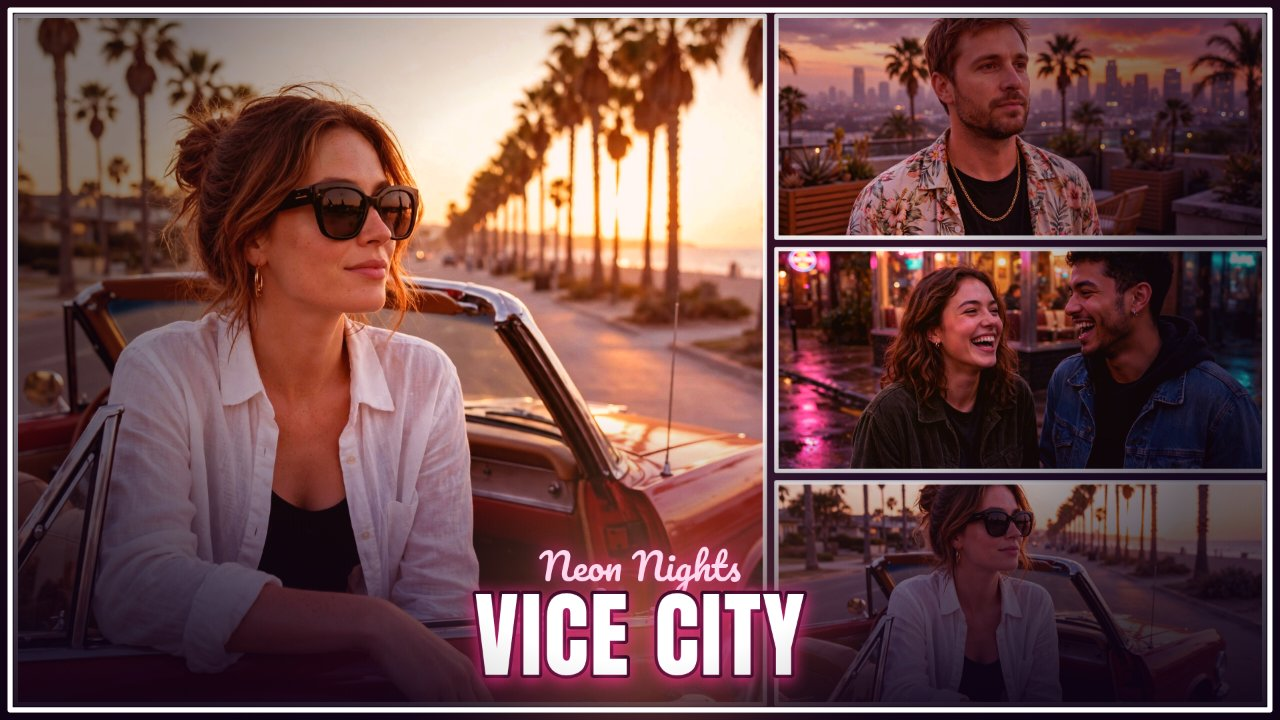
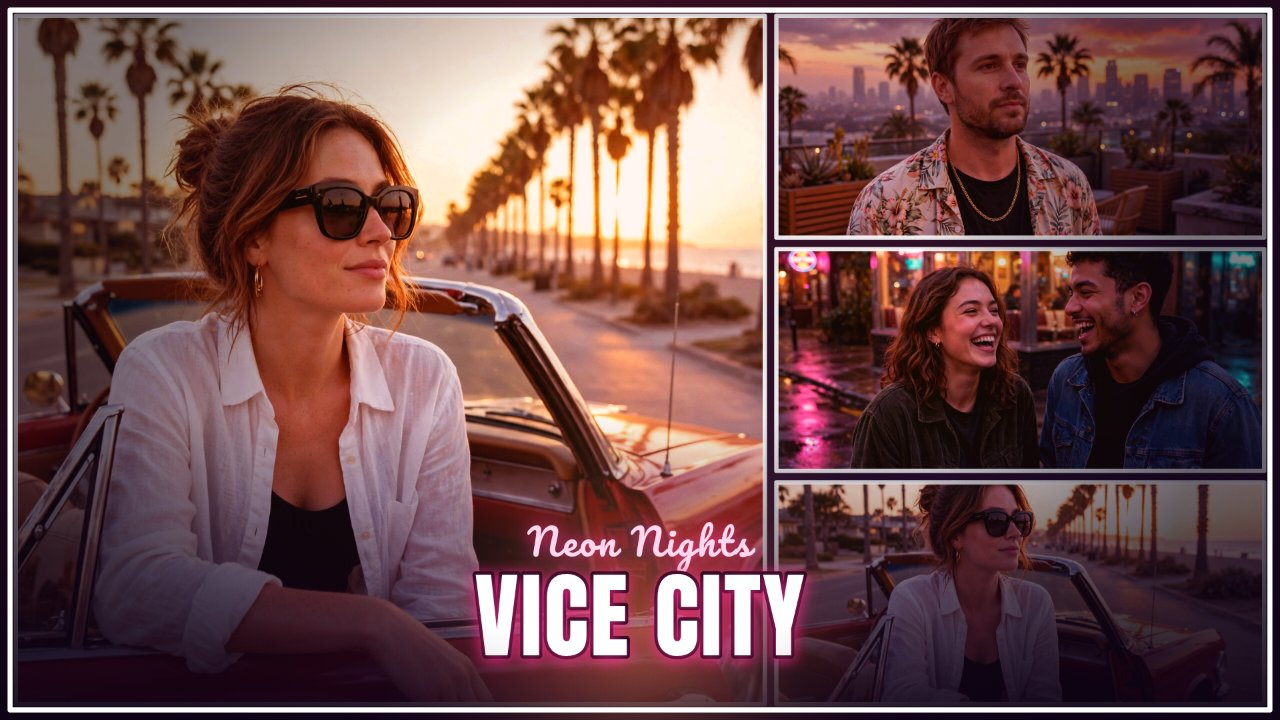
Fix Hermes review: uploaded photos, title wrap, subtitle overlap, pan clamp

Changed region(s): [[0.3438, 0.7028, 0.6562, 0.9778]]

diff --git a/app/src/cover.js b/app/src/cover.js
@@ -3,6 +3,11 @@
 // placed into a layout's panels (cover-fit, pan and zoom per panel), a colour
 // grade is laid over the whole piece, then the caption is lettered in Anton
 // with a Pacifico script subtitle, grain, vignette and a white poster frame.
+//
+// Pan is clamped to the photo's real overflow at its zoom, so a panel can
+// never slide far enough to expose the backdrop; the caption is wrapped and
+// shrunk until it fits in two lines, and the subtitle is anchored to the
+// title block so the two can never overlap.
 
 export const SIZES = {
   '1080x1080': [1080, 1080],
@@ -124,6 +129,35 @@ function grainTile() {
   return noiseCanvas;
 }
 
+/**
+ * Max pan offsets (fractions of panel width/height) before the photo's edge
+ * would expose the backdrop. Derived from the photo's real cover-fit size
+ * at the panel's zoom: at zoom 1 a photo that exactly fills the panel
+ * cannot move at all, and zooming in buys exactly the overflow it creates.
+ */
+export function panLimits(photo, rect, zoom) {
+  if (!photo || !photo.naturalWidth || !photo.naturalHeight || !rect) {
+    return { maxOx: 0, maxOy: 0 };
+  }
+  const z = zoom || 1;
+  const scale = Math.max(rect.w / photo.naturalWidth, rect.h / photo.naturalHeight) * z;
+  const pw = photo.naturalWidth * scale;
+  const ph = photo.naturalHeight * scale;
+  return {
+    maxOx: Math.max(0, (pw - rect.w) / 2 / rect.w),
+    maxOy: Math.max(0, (ph - rect.h) / 2 / rect.h),
+  };
+}
+
+/** Clamps a panel's pan to what its photo can actually cover. */
+function clampPan(panel, photo, rect) {
+  const { maxOx, maxOy } = panLimits(photo, rect, panel.zoom || 1);
+  return {
+    ox: Math.max(-maxOx, Math.min(maxOx, panel.ox || 0)),
+    oy: Math.max(-maxOy, Math.min(maxOy, panel.oy || 0)),
+  };
+}
+
 /** Draws one photo into a panel rect, cover-fit, with the panel's pan and zoom. */
 function drawPhotoIntoPanel(ctx, photo, rect, panel) {
   const { x, y, w, h, rot } = rect;
@@ -137,28 +171,58 @@ function drawPhotoIntoPanel(ctx, photo, rect, panel) {
   const scale = Math.max(w / photo.naturalWidth, h / photo.naturalHeight) * zoom;
   const pw = photo.naturalWidth * scale;
   const ph = photo.naturalHeight * scale;
-  const ox = (panel.ox || 0) * w;
-  const oy = (panel.oy || 0) * h;
-  ctx.drawImage(photo, -pw / 2 + ox, -ph / 2 + oy, pw, ph);
+  // Clamp here too, not just in the drag handler: no caller can ever slide
+  // the photo far enough to show the backdrop behind the panel.
+  const { ox, oy } = clampPan(panel, photo, rect);
+  ctx.drawImage(photo, -pw / 2 + ox * w, -ph / 2 + oy * h, pw, ph);
   ctx.restore();
 }
 
-/** Splits a caption into at most two centred lines that fit the width. */
+/** Longest a title line may run, in characters. */
+const TITLE_MAX_CHARS = 48;
+
+/**
+ * Splits a caption into centred lines that fit the width: greedy word wrap
+ * measured with the live font, at most TITLE_MAX_CHARS characters per line,
+ * with overlong words split at the widest prefix that still fits. It may
+ * return more than two lines; the caller shrinks the font until two remain.
+ */
 function wrapCaption(ctx, text, maxWidth) {
   const words = text.split(/\s+/).filter(Boolean);
-  if (words.length === 0) return [];
-  const lines = [''];
-  for (const word of words) {
-    const trial = lines[lines.length - 1] ? `${lines[lines.length - 1]} ${word}` : word;
-    if (ctx.measureText(trial).width <= maxWidth || lines[lines.length - 1] === '') {
-      lines[lines.length - 1] = trial;
-    } else if (lines.length === 1) {
-      lines.push(word);
+  const lines = [];
+  let cur = '';
+  const pushLine = () => { if (cur) lines.push(cur); cur = ''; };
+  for (let word of words) {
+    // A word that is too wide (or too long) is split into fitting chunks.
+    while ((ctx.measureText(word).width > maxWidth || word.length > TITLE_MAX_CHARS) && word.length > 1) {
+      let n = Math.min(word.length - 1, TITLE_MAX_CHARS);
+      while (n > 1 && ctx.measureText(word.slice(0, n)).width > maxWidth) n -= 1;
+      pushLine();
+      lines.push(word.slice(0, n));
+      word = word.slice(n);
+    }
+    const trial = cur ? `${cur} ${word}` : word;
+    const fits = ctx.measureText(trial).width <= maxWidth && trial.length <= TITLE_MAX_CHARS;
+    if (fits) {
+      cur = trial;
+    } else if (!cur) {
+      cur = word;
     } else {
-      lines[1] = `${lines[1]} ${word}`;
+      pushLine();
+      cur = word;
     }
   }
-  return lines.filter(Boolean);
+  pushLine();
+  return lines;
+}
+
+/** Shortens a line with an ellipsis until it fits the width. */
+function fitLine(ctx, text, maxWidth) {
+  let line = text;
+  while (line.length > 1 && ctx.measureText(`${line}…`).width > maxWidth) {
+    line = line.slice(0, -1);
+  }
+  return line.length < text.length ? `${line}…` : line;
 }
 
 /** Letters the title and subtitle over the cover, with a scrim and a sun glow. */
@@ -178,8 +242,53 @@ function drawLettering(ctx, W, H, state, grade) {
   }
   ctx.fillStyle = scrim;
   ctx.fillRect(0, 0, W, H);
+
+  const title = (state.title || '').trim().toUpperCase();
+  const subtitle = (state.subtitle || '').trim();
+  const subSize = m * 0.052;
+
+  // Title first: pick the biggest font whose wrapped lines fit in two lines.
+  // Every line is re-measured after each shrink, so a long title ends up
+  // smaller instead of spilling past the canvas edge.
+  let lines = [];
+  let size = 0;
+  if (title) {
+    size = Math.min(W * 0.17, m * 0.13);
+    const floor = m * 0.05;
+    for (;;) {
+      ctx.font = `${size}px Anton, sans-serif`;
+      try { ctx.letterSpacing = `${Math.round(size * 0.02)}px`; } catch { /* older canvas */ }
+      lines = wrapCaption(ctx, title, W * 0.92);
+      const fits = lines.length <= 2
+        && lines.every((line) => ctx.measureText(line).width <= W * 0.92);
+      if (fits || size <= floor) break;
+      size = Math.max(floor, size - 2);
+    }
+    if (lines.length > 2) {
+      // Even at the smallest font the title needs more than two lines:
+      // fold the overflow into line two, trimmed with an ellipsis.
+      lines = [lines[0], fitLine(ctx, lines.slice(1).join(' '), W * 0.92)];
+    }
+  }
+  const lineHeight = size * 1.02;
+  const blockH = lines.length * lineHeight;
+
+  // Anchor the title block and the subtitle to each other, so they can
+  // never overlap: at the bottom the script sits above the title, at the
+  // top it sits below it. With no title, the subtitle keeps its old spot.
+  let titleTop;
+  let subY = null;
+  if (bottom) {
+    titleTop = H * 0.94 - blockH;
+    if (subtitle) subY = titleTop - subSize * 0.9;
+  } else {
+    titleTop = H * 0.06;
+    if (subtitle) subY = titleTop + blockH + subSize * 0.9;
+  }
+  if (!title && subtitle) subY = bottom ? H * 0.795 : H * 0.075;
+
   // Warm glow behind the title, like a low sun.
-  const gy = bottom ? H * 0.86 : H * 0.16;
+  const gy = title ? titleTop + blockH / 2 : (bottom ? H * 0.86 : H * 0.16);
   const glow = ctx.createRadialGradient(W / 2, gy, 0, W / 2, gy, m * 0.42);
   glow.addColorStop(0, grade.glow);
   glow.addColorStop(1, 'rgba(0, 0, 0, 0)');
@@ -189,33 +298,17 @@ function drawLettering(ctx, W, H, state, grade) {
   ctx.fillRect(0, 0, W, H);
   ctx.restore();
 
-  const title = (state.title || '').trim().toUpperCase();
-  const subtitle = (state.subtitle || '').trim();
   ctx.textAlign = 'center';
   ctx.textBaseline = 'middle';
-  if (subtitle) {
-    const subSize = m * 0.052;
+  if (subtitle && subY !== null) {
     ctx.font = `${subSize}px Pacifico, cursive`;
     ctx.fillStyle = '#ffd7ef';
     ctx.shadowColor = 'rgba(255, 45, 150, 0.9)';
     ctx.shadowBlur = subSize * 0.5;
-    const subY = bottom ? H * 0.795 : H * 0.075;
     ctx.fillText(subtitle, W / 2, subY);
     ctx.shadowBlur = 0;
   }
   if (title) {
-    let size = Math.min(W * 0.17, m * 0.13);
-    ctx.font = `${size}px Anton, sans-serif`;
-    try { ctx.letterSpacing = `${Math.round(size * 0.02)}px`; } catch { /* older canvas */ }
-    let lines = wrapCaption(ctx, title, W * 0.92);
-    while (lines.length > 2 && size > m * 0.05) {
-      size -= 2;
-      ctx.font = `${size}px Anton, sans-serif`;
-      lines = wrapCaption(ctx, title, W * 0.92);
-    }
-    const lineHeight = size * 1.02;
-    const blockH = lines.length * lineHeight;
-    const topY = bottom ? H * 0.9 - blockH / 2 : H * 0.2 - blockH / 2;
     ctx.font = `${size}px Anton, sans-serif`;
     ctx.lineJoin = 'round';
     ctx.strokeStyle = '#1c0518';
@@ -225,7 +318,7 @@ function drawLettering(ctx, W, H, state, grade) {
     ctx.shadowBlur = size * 0.16;
     ctx.shadowOffsetY = size * 0.03;
     lines.forEach((line, i) => {
-      const y = topY + lineHeight * (i + 0.5);
+      const y = titleTop + lineHeight * (i + 0.5);
       ctx.strokeText(line, W / 2, y);
       ctx.fillText(line, W / 2, y);
     });

diff --git a/app/src/main.js b/app/src/main.js
@@ -1,7 +1,7 @@
 // Vice Cover Studio — wires the page: photos in, caption typed, panels
 // dragged and zoomed, cover out as a PNG. A `?shot=` query sets up a fixed
 // scene for a screenshot instead (./shots.js).
-import { drawCover, panelCount, panelRects, SIZES, LAYOUTS, GRADES } from './cover.js';
+import { drawCover, panelCount, panelRects, panLimits, SIZES, LAYOUTS, GRADES } from './cover.js';
 import { runShot } from './shots.js';
 
 const canvas = document.getElementById('cover');
@@ -27,6 +27,8 @@ export const state = {
   frame: true,
   photos: [],
   photoNames: [],
+  // Indices into photos[] that are built-in samples (not user uploads).
+  samplePhotos: new Set(),
   panels: [
     { photo: 0, zoom: 1, ox: 0, oy: 0 },
     { photo: 1, zoom: 1, ox: 0, oy: 0 },
@@ -103,10 +105,33 @@ function say(message) {
   if (status) status.textContent = message;
 }
 
-/** Adds a photo to the library and repoints empty panels at it. */
-export function addPhoto(img, name) {
+/**
+ * Adds a photo to the library. A user upload takes over the first panel
+ * still showing a sample photo — the first upload lands in panel 1, the
+ * hero slot — and later uploads fill the other panels in order, so an
+ * uploaded photo is always visible on the cover right away. Once every
+ * panel already shows a user photo, the upload goes to the selected panel
+ * instead. Samples never reassign panels: the opening state already points
+ * panels 1–3 at the three samples.
+ */
+export function addPhoto(img, name, { sample = false } = {}) {
   state.photos.push(img);
   state.photoNames.push(name);
+  const index = state.photos.length - 1;
+  if (sample) {
+    state.samplePhotos.add(index);
+  } else {
+    let target = -1;
+    for (let i = 0; i < state.panels.length; i += 1) {
+      if (state.samplePhotos.has(state.panels[i].photo)) {
+        target = i;
+        break;
+      }
+    }
+    if (target < 0) target = state.selected;
+    state.panels[target].photo = index;
+    state.selected = target;
+  }
   renderThumbs();
   redraw();
 }
@@ -116,7 +141,7 @@ export async function loadSample(name) {
   const sample = SAMPLES.find((s) => s.name === name);
   if (!sample) throw new Error(`no sample named ${name}`);
   const img = await loadImage(sample.file);
-  addPhoto(img, sample.label);
+  addPhoto(img, sample.label, { sample: true });
   return img;
 }
 
@@ -175,6 +200,20 @@ function buildChoiceButtons() {
   syncChoiceButtons('sizes', state.size);
 }
 
+/**
+ * Rotates a canvas point into a panel's unrotated local frame, so hit tests
+ * and drag deltas work for tilted panels too (the snaps layout).
+ */
+function toPanelLocal(px, py, rect) {
+  const cx = rect.x + rect.w / 2;
+  const cy = rect.y + rect.h / 2;
+  const dx = px - cx;
+  const dy = py - cy;
+  const cos = Math.cos(-rect.rot);
+  const sin = Math.sin(-rect.rot);
+  return { x: dx * cos - dy * sin, y: dx * sin + dy * cos };
+}
+
 /** Finds which panel a preview-canvas point falls in (or -1). */
 function hitPanel(clientX, clientY) {
   const box = canvas.getBoundingClientRect();
@@ -185,9 +224,23 @@ function hitPanel(clientX, clientY) {
   const n = panelCount(state.layout);
   for (let i = n - 1; i >= 0; i -= 1) {
     const r = rects[i];
-    if (px >= r.x && px <= r.x + r.w && py >= r.y && py <= r.y + r.h) return i;
+    const local = toPanelLocal(px, py, r);
+    if (Math.abs(local.x) <= r.w / 2 && Math.abs(local.y) <= r.h / 2) return i;
   }
   return -1;
+}
+
+/** Clamps a panel's pan to what its photo can actually cover at its zoom. */
+function clampPanelPan(i) {
+  const panel = state.panels[i];
+  if (!panel) return;
+  const rects = panelRects(state.layout, ...SIZES[state.size]);
+  const rect = rects[i];
+  if (!rect) return;
+  const photo = state.photos[panel.photo];
+  const { maxOx, maxOy } = panLimits(photo, rect, panel.zoom || 1);
+  panel.ox = Math.max(-maxOx, Math.min(maxOx, panel.ox || 0));
+  panel.oy = Math.max(-maxOy, Math.min(maxOy, panel.oy || 0));
 }
 
 /** Drag on the preview pans the selected panel's photo; wheel zooms it. */
@@ -214,10 +267,15 @@ function wireCanvasDrag() {
     const rect = rects[state.selected];
     if (!rect) return;
     const panel = state.panels[state.selected];
-    panel.ox += ((e.clientX - lastX) / box.width) * (W / rect.w);
-    panel.oy += ((e.clientY - lastY) / box.height) * (H / rect.h);
-    panel.ox = Math.max(-0.6, Math.min(0.6, panel.ox));
-    panel.oy = Math.max(-0.6, Math.min(0.6, panel.oy));
+    // Drag delta in canvas pixels, rotated into the panel's own frame so a
+    // tilted snap pans along its own axes instead of the screen's.
+    const dx = (e.clientX - lastX) * (W / box.width);
+    const dy = (e.clientY - lastY) * (H / box.height);
+    const cos = Math.cos(-rect.rot);
+    const sin = Math.sin(-rect.rot);
+    panel.ox += (dx * cos - dy * sin) / rect.w;
+    panel.oy += (dx * sin + dy * cos) / rect.h;
+    clampPanelPan(state.selected);
     lastX = e.clientX;
     lastY = e.clientY;
     redraw();
@@ -232,6 +290,7 @@ function wireCanvasDrag() {
     state.selected = hit;
     const panel = state.panels[hit];
     panel.zoom = Math.max(1, Math.min(2.5, (panel.zoom || 1) * (e.deltaY < 0 ? 1.08 : 0.93)));
+    clampPanelPan(hit);
     redraw();
   }, { passive: false });
 }
@@ -267,7 +326,9 @@ function wireControls() {
         say(`Could not read ${file.name}.`);
       }
     }
-    if (files.length) say(`${files.length} photo${files.length === 1 ? '' : 's'} loaded — click a panel, then drag to crop.`);
+    if (files.length) {
+      say(`${files.length} photo${files.length === 1 ? '' : 's'} loaded into panel ${state.selected + 1} — drag to crop.`);
+    }
     e.target.value = '';
   });
   document.getElementById('sample-boulevard').addEventListener('click', () => loadSample('boulevard'));
@@ -282,6 +343,7 @@ function wireControls() {
   document.getElementById('zoom').addEventListener('input', (e) => {
     const panel = state.panels[state.selected];
     panel.zoom = Number(e.target.value);
+    clampPanelPan(state.selected);
     redraw();
   });
   document.getElementById('next-photo').addEventListener('click', () => {
